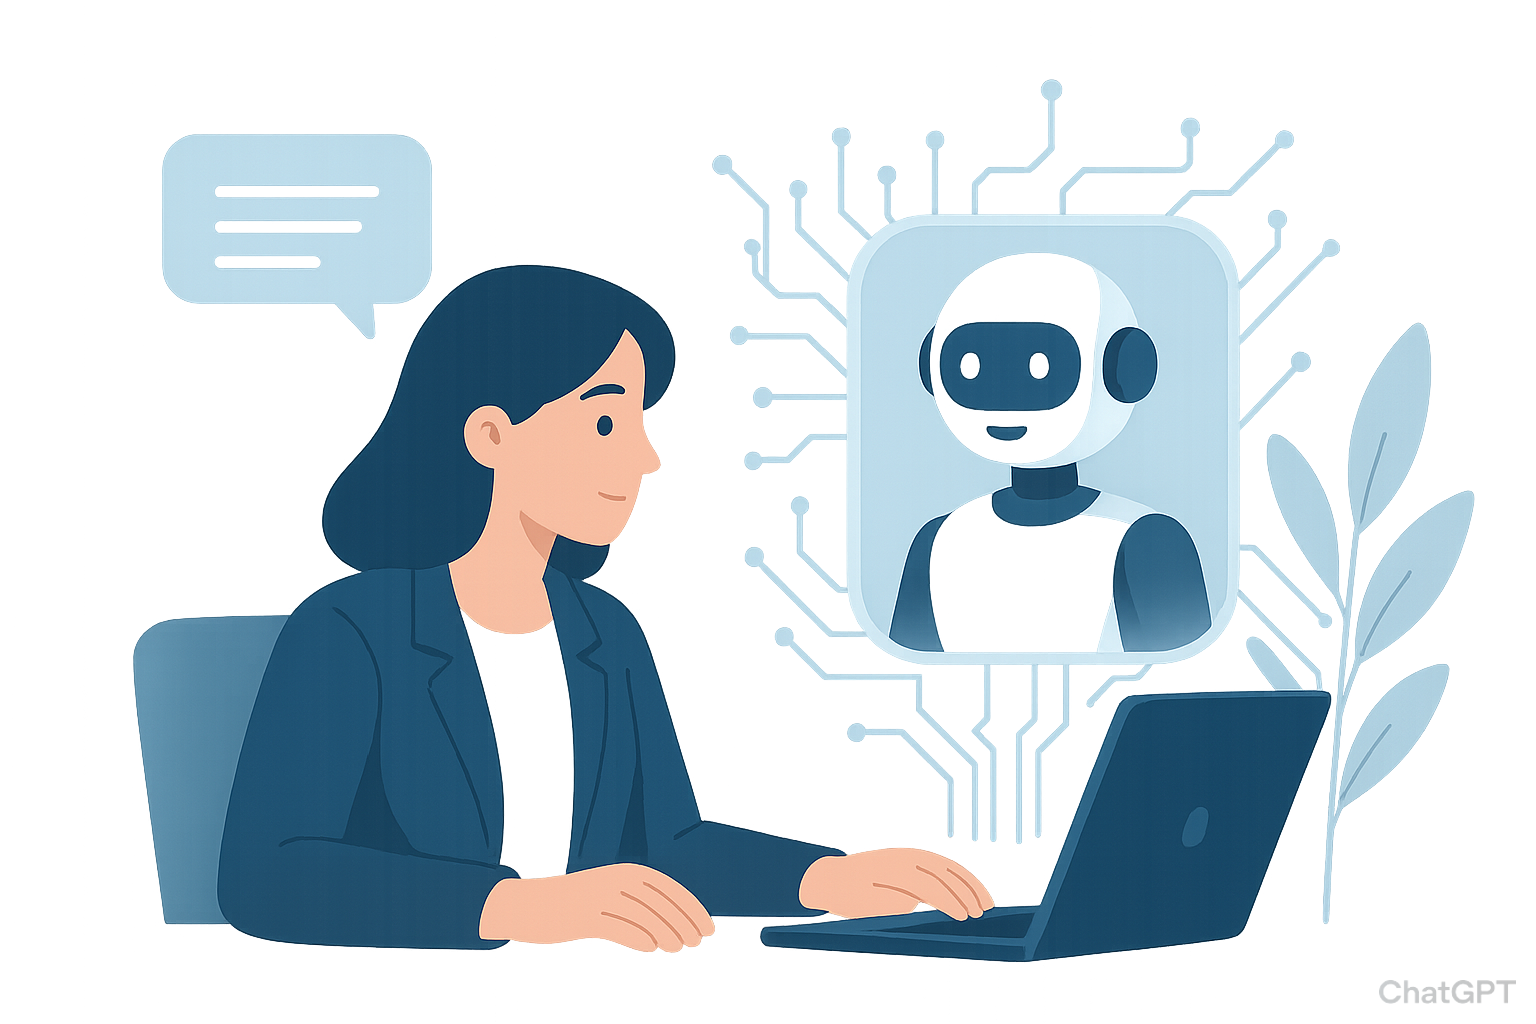
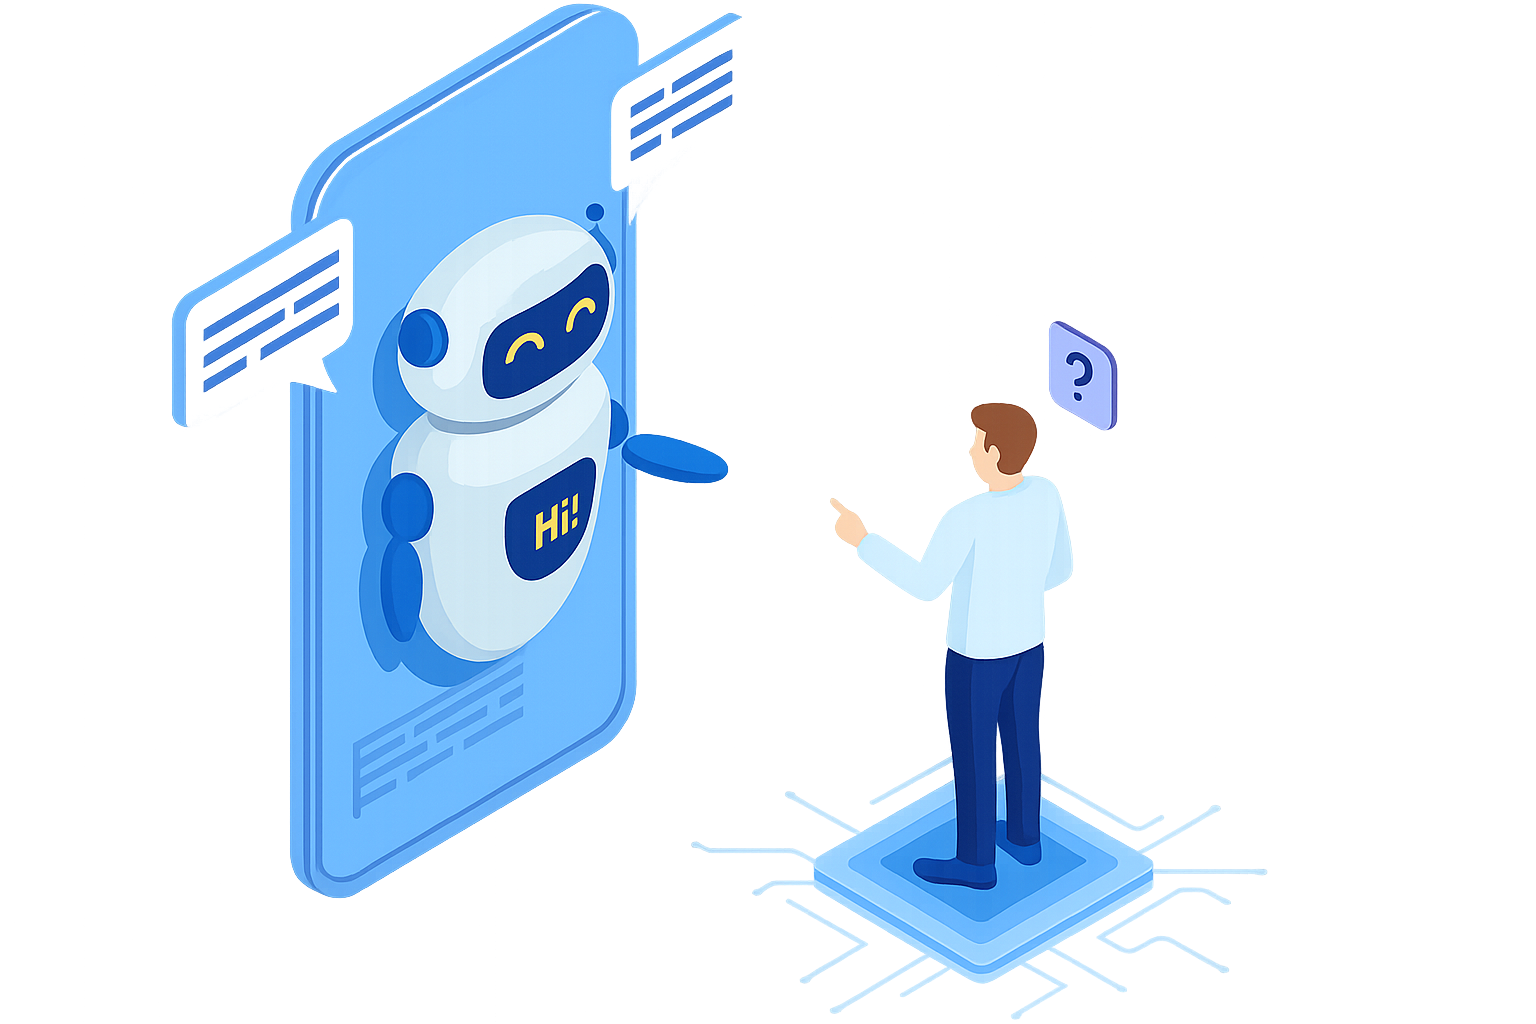
style: add animation in all sections and change the hero image

diff --git a/frontend/src/pages/LandingPage.jsx b/frontend/src/pages/LandingPage.jsx
@@ -20,13 +20,14 @@ import { Button } from "@/components/ui/button";
 import { Badge } from "@/components/ui/badge";
 import { Card } from "@/components/ui/card";
 import HeroImage from "@/assets/hero_image.png";
+import { Link } from "react-router-dom";
 
 function LandingPage() {
   const [isMobileMenuOpen, setIsMobileMenuOpen] = useState(false);
   return (
-    <div className="bg-background relative min-h-screen">
+    <div className="relative min-h-screen bg-[#EDFBFF]">
       {/* Header */}
-      <header className="border-border/40 bg-background/80 sticky top-0 z-10 border-b backdrop-blur-sm">
+      <header className="border-border/40 sticky top-0 z-10 bg-[#EDFBFF]/80 backdrop-blur-sm">
         <nav className="container mx-auto px-4 sm:px-6 lg:px-8">
           <div className="flex h-16 items-center justify-between">
             {/* Brand */}
@@ -36,11 +37,11 @@ function LandingPage() {
               transition={{ duration: 0.5, delay: 0.2 }}
               className="flex items-center gap-2"
             >
-              <div className="bg-primary flex h-8 w-8 items-center justify-center rounded-lg">
+              <div className="flex h-8 w-8 items-center justify-center rounded-lg bg-blue-400">
                 <Bot className="text-primary-foreground h-5 w-5" />
               </div>
               <span className="text-foreground text-xl font-semibold">
-                ALE<span className="text-primary">IA</span>
+                ALE<span className="text-blue-400">IA</span>
               </span>
             </motion.div>
 
@@ -69,11 +70,11 @@ function LandingPage() {
               transition={{ duration: 0.5, delay: 0.2 }}
               className="flex items-center gap-3"
             >
-              <Button variant="ghost" size="sm" className="text-sm font-medium">
-                Login
-              </Button>
-              <Button size="sm" className="text-sm font-medium">
-                Get Started
+              <Button
+                size="sm"
+                className="bg-blue-400 text-sm font-medium hover:bg-blue-500"
+              >
+                <Link to="/auth/login">Login</Link>
               </Button>
             </motion.div>
 
@@ -104,6 +105,7 @@ function LandingPage() {
           </div>
         </nav>
       </header>
+
       {/* Mobile Menu */}
       <div
         className={`absolute z-10 w-full overflow-hidden bg-white shadow-lg transition-all duration-300 ease-in-out md:hidden ${
@@ -140,11 +142,16 @@ function LandingPage() {
       </div>
 
       {/* Hero Section */}
-      <section className="relative overflow-hidden">
+      <section id="product" className="relative overflow-hidden">
         <div className="container mx-auto px-4 py-16 sm:px-6 lg:px-8 lg:py-16">
           <div className="grid items-center gap-12 lg:grid-cols-2 lg:gap-12">
             {/* Left Content */}
-            <div className="space-y-8">
+            <motion.div
+              initial={{ opacity: 0 }}
+              animate={{ opacity: 1 }}
+              transition={{ duration: 0.5, delay: 0.4 }}
+              className="space-y-8"
+            >
               <div className="inline-flex">
                 <Badge
                   variant="secondary"
@@ -203,9 +210,14 @@ function LandingPage() {
                   </div>
                 </div>
               </div>
-            </div>
+            </motion.div>
             {/* Right Content */}
-            <div className="relative hidden items-center justify-center lg:flex lg:h-[600px]">
+            <motion.div
+              initial={{ x: 200, opacity: 0, rotate: 10 }}
+              animate={{ x: 0, opacity: 1, rotate: 0 }}
+              transition={{ duration: 0.5, delay: 0.4 }}
+              className="relative hidden items-center justify-center lg:flex lg:h-[600px]"
+            >
               <div className="relative w-full max-w-lg">
                 <img
                   src={HeroImage}
@@ -213,13 +225,20 @@ function LandingPage() {
                   className="h-auto w-full drop-shadow"
                 />
               </div>
-            </div>
+            </motion.div>
           </div>
         </div>
       </section>
 
       {/* Features Section */}
-      <section id="features" className="bg-muted/30 py-16 lg:py-16">
+      <motion.section
+        initial={{ opacity: 0 }}
+        whileInView={{ opacity: 1 }}
+        transition={{ duration: 0.5, delay: 0.3 }}
+        viewport={{ once: true }}
+        id="features"
+        className="bg-muted/30 py-16 lg:py-16"
+      >
         <div className="container mx-auto px-4 sm:px-6 lg:px-8">
           <div className="mx-auto mb-16 max-w-3xl text-center">
             <Badge variant="secondary" className="mb-4">
@@ -315,10 +334,17 @@ function LandingPage() {
             </Card>
           </div>
         </div>
-      </section>
+      </motion.section>
 
       {/* Benefits Section */}
-      <section className="py-16 lg:py-16">
+      <motion.section
+        initial={{ opacity: 0 }}
+        whileInView={{ opacity: 1 }}
+        transition={{ duration: 0.5, delay: 0.4 }}
+        viewport={{ once: true }}
+        id="why-aleia"
+        className="py-16 lg:py-16"
+      >
         <div className="container mx-auto px-4 sm:px-6 lg:px-8">
           <div className="grid items-center gap-12 lg:grid-cols-2 lg:gap-16">
             <div className="space-y-6">
@@ -419,10 +445,16 @@ function LandingPage() {
             </div>
           </div>
         </div>
-      </section>
+      </motion.section>
 
       {/* CTA Section */}
-      <section className="bg-secondary text-secondary-foreground py-16 lg:py-24">
+      <motion.section
+        initial={{ opacity: 0 }}
+        whileInView={{ opacity: 1 }}
+        transition={{ duration: 0.5, delay: 0.3 }}
+        viewport={{ once: true }}
+        className="bg-secondary text-secondary-foreground py-16 lg:py-24"
+      >
         <div className="container mx-auto px-4 sm:px-6 lg:px-8">
           <div className="mx-auto max-w-3xl space-y-8 text-center">
             <h2 className="text-3xl font-bold tracking-tight text-balance sm:text-4xl lg:text-5xl">
@@ -452,10 +484,16 @@ function LandingPage() {
             </div>
           </div>
         </div>
-      </section>
+      </motion.section>
 
       {/* Footer */}
-      <footer className="border-border/40 border-t py-12">
+      <motion.footer
+        initial={{ opacity: 0 }}
+        whileInView={{ opacity: 1 }}
+        transition={{ duration: 0.5, delay: 0.3 }}
+        viewport={{ once: true }}
+        className="border-border/40 border-t py-12"
+      >
         <div className="container mx-auto px-4 sm:px-6 lg:px-8">
           <div className="mb-8 grid gap-8 sm:grid-cols-2 lg:grid-cols-4">
             <div>
@@ -514,7 +552,7 @@ function LandingPage() {
             © 2025 ALEIA. All rights reserved.
           </div>
         </div>
-      </footer>
+      </motion.footer>
     </div>
   );
 }

diff --git a/frontend/src/constants/navigation.js b/frontend/src/constants/navigation.js
@@ -32,12 +32,9 @@ const NAVIGATION_DATA = {
 };
 
 const NAVIGATION_LANDING_DATA = [
-  { id: 1, title: "Product", url: "#" },
-  { id: 2, title: "Features", url: "#" },
-  { id: 3, title: "Pricing", url: "#" },
-  { id: 4, title: "Company", url: "#" },
-  { id: 5, title: "Blog", url: "#" },
-  { id: 6, title: "Login", url: "/auth/login" },
+  { id: 1, title: "Product", url: "#product" },
+  { id: 2, title: "Features", url: "#features" },
+  { id: 3, title: "Why ALEIA", url: "#why-aleia" },
 ];
 
 export { NAVIGATION_DATA, NAVIGATION_LANDING_DATA };
